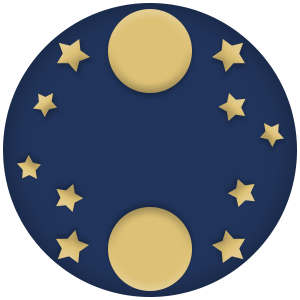
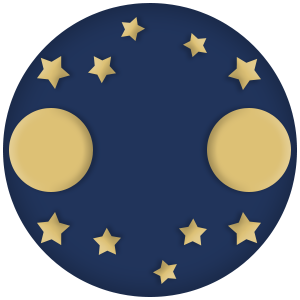
add moon phase param

diff --git a/iBuki/MainPage.xaml b/iBuki/MainPage.xaml
@@ -1138,7 +1138,7 @@
                                 </StackPanel>
                             </ScrollViewer>
                         </PivotItem>
-                        <!--ムーン-->
+                        <!--ムーンフェイズ-->
                         <PivotItem>
                             <PivotItem.Header>
                                 <StackPanel>
@@ -1178,6 +1178,71 @@
                                                 TextAlignment="Center" VerticalAlignment="Center" Width="40"
                                                 Text="{x:Bind moonPhaseSizeSlider.Value,Converter={StaticResource Truncate},Mode=OneWay}"/>
                                         </StackPanel>
+                                    </StackPanel>
+                                    <!--座標-->
+                                    <StackPanel
+                                        Style="{StaticResource SettingWhitePanelStyle}">
+                                        <TextBlock
+                                            x:Uid="coordinateLabel" Text="Coordinate"/>
+                                        <StackPanel Orientation="Horizontal">
+                                            <TextBlock
+                                                 Width="15" HorizontalAlignment="Center" VerticalAlignment="Center" Text="X"/>
+                                            <Slider
+                                                x:Name="moonPhaseXSlider"
+                                                Minimum="-250" Maximum="250" Width="195"
+                                                TickPlacement="None" TickFrequency="1" SnapsTo="Ticks"
+                                                IsEnabled="{x:Bind moonPhaseToggle.IsOn,Mode=OneWay}"
+                                                Value="{x:Bind vm.MoonPhaseCoordinateX,Mode=TwoWay}" />
+                                            <TextBlock
+                                                TextAlignment="Center" VerticalAlignment="Center" Width="40"
+                                                Text="{x:Bind moonPhaseXSlider.Value,Converter={StaticResource Truncate},Mode=OneWay}"/>
+                                        </StackPanel>
+                                        <StackPanel Orientation="Horizontal">
+                                            <TextBlock
+                                                Width="15" HorizontalAlignment="Center" VerticalAlignment="Center" Text="Y"/>
+                                            <Slider
+                                                x:Name="moonPhaseYSlider"
+                                                Minimum="-250" Maximum="250" Width="195"
+                                                TickPlacement="None" TickFrequency="1" SnapsTo="Ticks"
+                                                IsEnabled="{x:Bind moonPhaseToggle.IsOn,Mode=OneWay}"
+                                                Value="{x:Bind vm.MoonPhaseCoordinateY,Mode=TwoWay}" />
+                                            <TextBlock
+                                                TextAlignment="Center" VerticalAlignment="Center" Width="40"
+                                            Text="{x:Bind moonPhaseYSlider.Value,Converter={StaticResource Truncate},Mode=OneWay}"/>
+                                        </StackPanel>
+                                        <StackPanel>
+                                            <CalendarDatePicker Date="{x:Bind moonPhase.DateTime,Mode=TwoWay}"/>
+                                        </StackPanel>
+                                    </StackPanel>
+                                    <!--前面-->
+                                    <StackPanel
+                                        Style="{StaticResource SettingTitlePanelStyle}">
+                                        <TextBlock
+                                            Style="{StaticResource SettingSubTitleTextBlockStyle}"
+                                            x:Uid="foregroundTextBlock" Text="Foreground"/>
+                                    </StackPanel>
+                                    <!--色-->
+                                    <StackPanel
+                                        Style="{StaticResource SettingWhitePanelStyle}">
+                                        <TextBlock
+                                            x:Uid="colorLabel" Text="Color"/>
+                                        <Button
+                                            Style="{StaticResource ColorButtonStyle}"
+                                            IsEnabled="{x:Bind moonPhaseToggle.IsOn,Mode=OneWay}"
+                                            Background="{x:Bind vm.DesignConfig.MoonPhaseForegroundColor, Converter={StaticResource ColorBrush}, Mode=OneWay}"
+                                            Tapped="ColorButton_Tapped">
+                                            <FlyoutBase.AttachedFlyout>
+                                                <Flyout Placement="Right">
+                                                    <Viewbox Margin="5" MaxWidth="300" Stretch="Fill">
+                                                        <ColorPicker
+                                                            IsColorChannelTextInputVisible="False"
+                                                            IsColorSliderVisible="True"
+                                                            IsAlphaEnabled="True"
+                                                            Color="{x:Bind vm.DesignConfig.MoonPhaseForegroundColor,Mode=TwoWay}"/>
+                                                    </Viewbox>
+                                                </Flyout>
+                                            </FlyoutBase.AttachedFlyout>
+                                        </Button>
                                     </StackPanel>
                                 </StackPanel>
                             </ScrollViewer>
@@ -1251,10 +1316,14 @@
                         Visibility="{x:Bind vm.DesignConfig.IsBackgroundImageDisplay,Mode=OneWay}"
                         Source="{x:Bind vm.DesignConfig.BackgroundImage,Mode=OneWay}"
                         Height="{x:Bind vm.AppConfig.WindowSize}" Width="{x:Bind vm.AppConfig.WindowSize}" />
+                    <!--ムーンフェーズ-->
                     <local:MoonPhase
                         x:Name="moonPhase"
+                        HorizontalAlignment="Center" VerticalAlignment="Center"
                         Visibility="{x:Bind vm.DesignConfig.IsMoonPhaseDisplay,Mode=OneWay}"
-                        Width="{x:Bind vm.DesignConfig.MoonPhaseSize,Mode=OneWay}" Height="{x:Bind vm.DesignConfig.MoonPhaseSize,Mode=OneWay}"/>
+                        Width="{x:Bind vm.DesignConfig.MoonPhaseSize,Mode=OneWay}" Height="{x:Bind vm.DesignConfig.MoonPhaseSize,Mode=OneWay}"
+                        Margin="{x:Bind vm.MoonPhaseCoordinate,Mode=OneWay}"
+                        Foreground="{x:Bind vm.DesignConfig.MoonPhaseForegroundColor,Converter={StaticResource ColorBrush},Mode=OneWay}"/>
                     <local:CircleScale
                         x:Name="dialScale"
                         HorizontalAlignment="Left" Margin="0" VerticalAlignment="Top"

diff --git a/iBuki/Controls/MoonPhase.xaml b/iBuki/Controls/MoonPhase.xaml
@@ -19,12 +19,14 @@
                 Source="ms-appx:///Assets/MoonPhase/MoonPhaseBackground.png"
                 RenderTransformOrigin="0.5,0.5">
                 <Image.RenderTransform>
-                    <CompositeTransform x:Name="angle" Rotation="0"/>
+                    <CompositeTransform
+                        x:Name="angle" Rotation="180"/>
                 </Image.RenderTransform>
             </Image>
             <Path 
                 Data="M150,5.0167232 C79.80011,5.0167236 21.25312,54.908703 7.8835669,121.16811 L7.4959383,123.20641 7.4626164,123.2925 C7.4338913,123.40506 7.4119878,123.51962 7.3972688,123.63589 L7.3888555,123.76949 7.3450193,124 7.3756638,124 7.3972688,124.34311 C7.6181078,126.08708 9.4546299,127.448 11.687498,127.448 13.473796,127.448 15.00643,126.57701 15.661101,125.3357 L15.694271,125.25 15.762654,125.25 16.917608,122.90813 C31.233383,96.584175 57.140991,79.000008 86.724464,79 104.15759,79.000008 120.31424,85.106239 133.57454,95.50885 L135.07286,96.718315 164.91713,96.718315 166.41545,95.50885 C179.67575,85.106239 195.83241,79.000008 213.26553,79 242.84901,79.000008 268.75662,96.584175 283.07239,122.90813 L284.22736,125.25 284.30573,125.25 284.3389,125.3357 C284.99359,126.57701 286.52621,127.448 288.3125,127.448 290.54535,127.448 292.3819,126.08708 292.60272,124.34311 L292.62433,124 292.65497,124 292.61115,123.76959 292.60272,123.63589 C292.58801,123.51962 292.5661,123.40506 292.53738,123.2925 L292.50403,123.20634 292.11642,121.16811 C278.74686,54.908703 220.19989,5.0167236 150,5.0167232 z M150,0 C225.0762,0 287.27014,55.155544 298.27167,127.15648 L298.27258,127.16303 298.67267,129.95798 298.74219,130.5191 298.79486,130.89549 298.86664,131.5235 299.02182,132.77589 299.15341,134.03209 299.22556,134.66338 299.25922,135.04242 299.31863,135.60971 299.56238,138.45638 299.56262,138.45894 299.56277,138.46156 299.7532,141.32307 299.78049,141.89723 299.80481,142.28102 299.82913,142.9205 299.88998,144.20163 299.92654,145.48492 299.95102,146.12843 299.9559,146.51436 299.97241,147.0941 C299.99078,148.06053 300,149.02919 300,150 300,217.30971 255.6657,274.26459 194.60541,293.25629 193.43118,293.62152 192.25075,293.97272 191.06435,294.30966 189.87793,294.64661 188.68553,294.96933 187.48734,295.27762 186.28914,295.58588 185.08516,295.87973 183.87558,296.15897 182.66599,296.43817 181.45081,296.70276 180.23022,296.95255 179.00966,297.2023 177.78368,297.43726 176.55249,297.65717 175.3213,297.87708 174.08492,298.08197&#xD;&#xA;172.84352,298.27167 171.60213,298.46133 170.35573,298.6358 169.10451,298.79486 167.85329,298.95392 166.59727,299.09753 165.33662,299.22556 164.07599,299.35358 162.81073,299.466 161.54106,299.56262 160.27139,299.65921 158.9973,299.74002 157.71898,299.80481 156.44066,299.86963 155.15813,299.91843 153.87157,299.95102 152.58501,299.98361 151.29442,300 150,300 148.70558,300 147.41499,299.98361 146.12843,299.95102 144.84187,299.91843&#xD;&#xA;143.55934,299.86963 142.28102,299.80481 141.0027,299.74002 139.72861,299.65921 138.45894,299.56262 137.18927,299.466 135.92401,299.35358 134.66338,299.22556 133.40273,299.09753 132.14671,298.95392 130.89549,298.79486 129.64427,298.6358 128.39787,298.46133 127.15648,298.27167 125.91508,298.08197 124.6787,297.87708 123.44751,297.65717 122.21633,297.43726 120.99035,297.2023 119.76977,296.95255 118.54919,296.70276 117.33401,296.43817 116.12443,296.15897&#xD;&#xA;114.91484,295.87973 113.71085,295.58588 112.51266,295.27762 111.31447,294.96933 110.12207,294.64661 108.93565,294.30966 46.055866,276.45132 5.8306589E-12,218.60413 1.943504E-12,150 -1.5459128E-07,149.02919 0.0092223622,148.06053 0.02758652,147.0941 L0.044108927,146.51436 0.048990548,146.12843 0.073443353,145.48492 0.1100108,144.20163 0.17088801,142.92029 0.19517988,142.28102 0.21948516,141.89746 0.24677664,141.32307 C0.35595506,139.40878 0.50103253,137.5041 0.68134367,135.60971 L0.74085295,135.04152 0.77443421,134.66338 0.84640682,134.03375 0.97815245,132.77589 1.1335909,131.52142 1.2051433,130.89549 1.2576208,130.52045 1.327318,129.95798 C1.4523767,129.02138 1.586078,128.08752 1.7283394,127.15647 L2.1129503,124.83507 2.342838,123.44751 C14.8783,53.270027 76.218208,0 150,0 z"
-                Fill="White" Stretch="Fill" Height="{x:Bind canvas.Height,Mode=OneWay}" Width="{x:Bind canvas.Width,Mode=OneWay}"/>
+                Fill="{x:Bind parent.Foreground,Mode=OneWay}" Stretch="Fill"
+                Height="{x:Bind canvas.Height,Mode=OneWay}" Width="{x:Bind canvas.Width,Mode=OneWay}"/>
         </Canvas>
     </Viewbox>
 </UserControl>

diff --git a/iBuki/MainPageViewModel.cs b/iBuki/MainPageViewModel.cs
@@ -147,6 +147,15 @@ namespace iBuki
                 DesignConfig.DateFontFamily = settings.DateFontFamily;
                 DesignConfig.DateFontSize = settings.DateFontSize;
             }
+            // moon phase
+            DesignConfig.IsMoonPhaseDisplay = settings.MoonPhaseDisplay;
+            if (DesignConfig.IsMoonPhaseDisplay)
+            {
+                DesignConfig.MoonPhaseSize = settings.MoonPhaseSize;
+                DesignConfig.MoonPhaseCoordinateX = settings.MoonPhaseCoordinateX;
+                DesignConfig.MoonPhaseCoordinateY = settings.MoonPhaseCoordinateY;
+                DesignConfig.MoonPhaseForegroundColor = ConvertHexColor(settings.MoonPhaseForegroundColor);
+            }
         }
 
         /// <summary>
@@ -232,6 +241,17 @@ namespace iBuki
                 settings.DateFontFamily = DesignConfig.DateFontFamily;
                 settings.DateFontSize = DesignConfig.DateFontSize;
             }
+
+            // moon phase
+            settings.MoonPhaseDisplay = DesignConfig.IsMoonPhaseDisplay;
+            if (DesignConfig.IsMoonPhaseDisplay)
+            {
+                settings.MoonPhaseSize = DesignConfig.MoonPhaseSize;
+                settings.MoonPhaseCoordinateX = DesignConfig.MoonPhaseCoordinateX;
+                settings.MoonPhaseCoordinateY = DesignConfig.MoonPhaseCoordinateY;
+                settings.MoonPhaseForegroundColor = DesignConfig.MoonPhaseForegroundColor.ToString();
+            }
+
 
             return settings;
         }
@@ -388,7 +408,7 @@ namespace iBuki
 
         #endregion
 
-        #region Date
+        #region Day Date
 
         public string[] FontList = CanvasTextFormat.GetSystemFontFamilies();
 
@@ -432,6 +452,54 @@ namespace iBuki
                 var coordinate = new Thickness(X, value, 0, 0);
                 DateCoordinate = coordinate;
                 _dateCoordinateY = value;
+                OnPropertyChanged();
+            }
+        }
+
+        #endregion
+
+        #region Moon Phase
+
+
+        // CoordinateのX,Y値を、MarginのLeft,Top,Right,Buttom値に変換する
+        private Thickness _moonPhaseCoordinate = new Thickness(0, 0, 0, 0);
+        public Thickness MoonPhaseCoordinate
+        {
+            get => _moonPhaseCoordinate;
+            set
+            {
+                if (value == _moonPhaseCoordinate) return;
+                _moonPhaseCoordinate = value;
+                OnPropertyChanged();
+            }
+        }
+
+        private double _moonPhaseCoordinateX = 0;
+        public double MoonPhaseCoordinateX
+        {
+            get { return _moonPhaseCoordinateX; }
+            set
+            {
+                if (value == _moonPhaseCoordinateX) return;
+                DesignConfig.MoonPhaseCoordinateX = value;
+                var coordinate = new Thickness(value, MoonPhaseCoordinate.Top, value * -1, MoonPhaseCoordinate.Bottom);
+                MoonPhaseCoordinate = coordinate;
+                _moonPhaseCoordinateX = value;
+                OnPropertyChanged();
+            }
+        }
+
+        private double _moonPhaseCoordinateY = 0;
+        public double MoonPhaseCoordinateY
+        {
+            get { return _moonPhaseCoordinateY; }
+            set
+            {
+                if (value == _moonPhaseCoordinateY) return;
+                DesignConfig.MoonPhaseCoordinateY = value;
+                var coordinate = new Thickness(MoonPhaseCoordinate.Left, value * -1, MoonPhaseCoordinate.Right, value);
+                MoonPhaseCoordinate = coordinate;
+                _moonPhaseCoordinateY = value;
                 OnPropertyChanged();
             }
         }

diff --git a/iBuki/Controls/MoonPhase.xaml.cs b/iBuki/Controls/MoonPhase.xaml.cs
@@ -24,31 +24,48 @@ namespace iBuki
     public sealed partial class MoonPhase : UserControl
     {
 
-        public double Size
+        public DateTimeOffset DateTime
         {
-            get { return (double)GetValue(RadiusProperty); }
-            set { SetValue(RadiusProperty, value); }
+            get { return (DateTimeOffset)GetValue(DateTimeProperty); }
+            set { SetValue(DateTimeProperty, value); }
         }
 
-        public static readonly DependencyProperty RadiusProperty = DependencyProperty.Register(
-            "Size",
-            typeof(double),
+        public static readonly DependencyProperty DateTimeProperty = DependencyProperty.Register(
+            "DateTime",
+            typeof(DateTimeOffset),
             typeof(MoonPhase),
-            new PropertyMetadata((double)100,
+            new PropertyMetadata(DateTimeOffset.Now,
                 (d, e) => { (d as MoonPhase).OnPropertyChanged(e); })
             );
 
         public MoonPhase()
         {
             InitializeComponent();
-
             background.Source = new BitmapImage(new Uri(Const.URI_ASSETS_MOONPHASE + Const.FILE_MOONPHASE_BACKGROUND));
+            var moonAge = GetMoonAge(DateTime);
+            angle.Rotation = moonAge * 6;
         }
 
         private void OnPropertyChanged(DependencyPropertyChangedEventArgs e)
         {
-
+            var moonAge = GetMoonAge(DateTime);
+            angle.Rotation = moonAge * 6;
         }
 
+
+        /// <summary>
+        /// 簡易月齢計算法により月齢を求める
+        /// 堀源一郎「おに・おに・にし-簡易月齢計算法」（『天文月報』1968年7月号、日本天文学会、1968年）。
+        /// </summary>
+        private double GetMoonAge(DateTimeOffset datetime)
+        {
+            double[] c = { 0, 0, 2, 0, 2, 2, 4, 5, 6, 7, 8, 9, 10 };
+            var age = (((datetime.Year - 11) % 19) * 11 + c[datetime.Month] + datetime.Day) % 30;
+            return age;
+        }
+
+
+
+        //　ユリウス日から直前の新月のユリウス日を差し引く計算でいい？
     }
 }

diff --git a/iBuki/DesignConfig.cs b/iBuki/DesignConfig.cs
@@ -579,6 +579,42 @@ namespace iBuki
             }
         }
 
+        private double _moonPhaseCoordinateX = 1;
+        public double MoonPhaseCoordinateX
+        {
+            get { return _moonPhaseCoordinateX; }
+            set
+            {
+                if (value == _moonPhaseCoordinateX) return;
+                _moonPhaseCoordinateX = value;
+                OnPropertyChanged();
+            }
+        }
+
+        private double _moonPhaseCoordinateY = 1;
+        public double MoonPhaseCoordinateY
+        {
+            get { return _moonPhaseCoordinateY; }
+            set
+            {
+                if (value == _moonPhaseCoordinateY) return;
+                _moonPhaseCoordinateY = value;
+                OnPropertyChanged();
+            }
+        }
+
+        private Color _moonPhaseForegroundColor = Color.FromArgb(255, 255, 255, 255);
+        public Color MoonPhaseForegroundColor
+        {
+            get { return _moonPhaseForegroundColor; }
+            set
+            {
+                if (value == _moonPhaseForegroundColor) return;
+                _moonPhaseForegroundColor = value;
+                OnPropertyChanged();
+            }
+        }
+
         #endregion
     }
 }

diff --git a/iBuki/Settings.cs b/iBuki/Settings.cs
@@ -155,6 +155,21 @@ namespace iBuki
         [DataMember]
         public double DateFontSize { get; set; }
 
+        [DataMember]
+        public bool MoonPhaseDisplay { get; set; }
+
+        [DataMember]
+        public double MoonPhaseSize { get; set; }
+
+        [DataMember]
+        public double MoonPhaseCoordinateX { get; set; }
+
+        [DataMember]
+        public double MoonPhaseCoordinateY { get; set; }
+
+        [DataMember]
+        public string MoonPhaseForegroundColor { get; set; }
+
         public BitmapSource Thumbnail { get; set; }
 
         public string CreatedAtDateFormat { get
